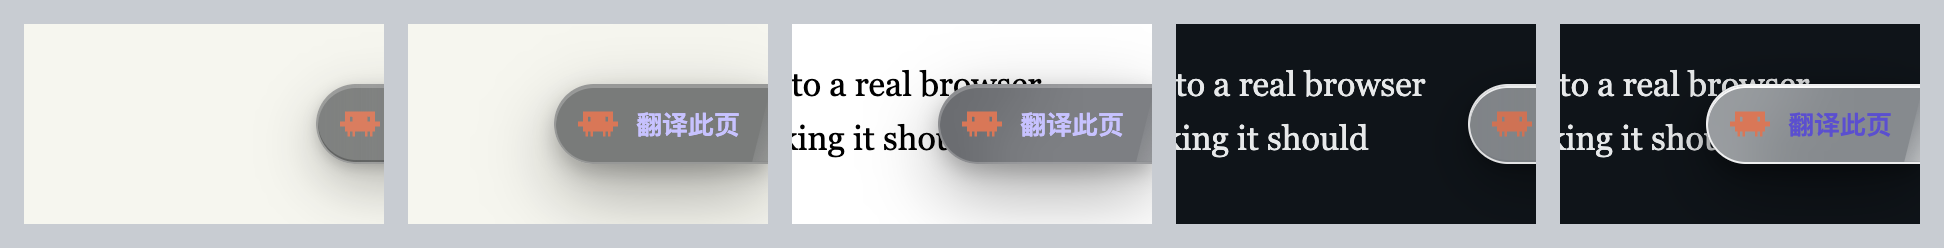
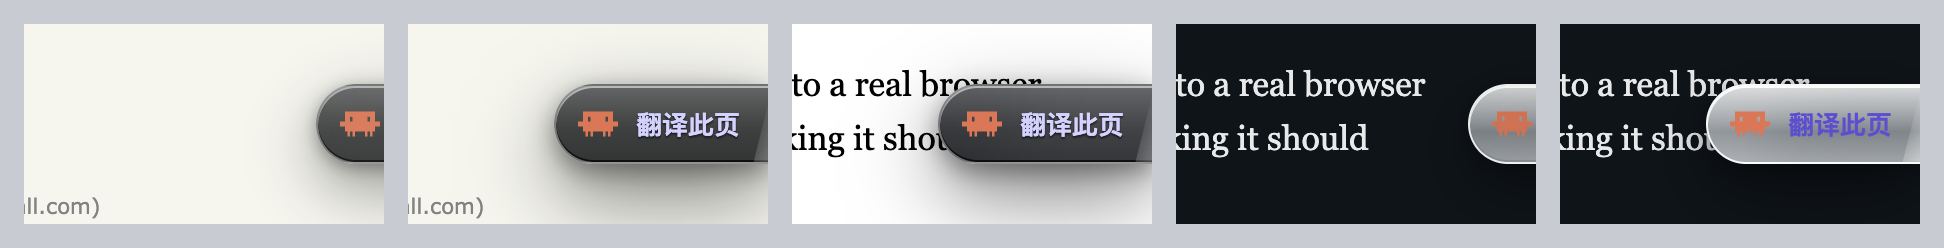
0.7.1: piano-black glossy glass for the side tab

diff --git a/translator.css b/translator.css
@@ -17,23 +17,24 @@ html.xrf-dark .xrf-tr-below{color:#b3adf0}
    the page for contrast: dark glass on light pages, light glass on dark pages (html.xrf-dark is set from the page's own
    background). Every property the host page could bleed in (img margins/positioning, line-height, box-sizing) is pinned. */
 .xrf-fab{position:fixed;right:0;top:50%;z-index:2147483000;box-sizing:border-box;display:flex;align-items:center;gap:9px;height:40px;margin:0;padding:0 14px 0 11px;border-radius:999px 0 0 999px;overflow:hidden;isolation:isolate;
-  background:rgba(18,22,30,.55);backdrop-filter:blur(16px) saturate(1.6);-webkit-backdrop-filter:blur(16px) saturate(1.6);border:1px solid rgba(255,255,255,.22);border-right:0;
-  box-shadow:inset 0 1px 0 rgba(255,255,255,.22),inset 0 -1px 0 rgba(0,0,0,.25),0 2px 6px rgba(0,0,0,.18),0 10px 28px rgba(0,0,0,.28);
+  background:linear-gradient(180deg,rgba(255,255,255,.2),rgba(255,255,255,.05) 42%,rgba(255,255,255,0) 58%,rgba(0,0,0,.18)),rgba(4,6,10,.76);   /* piano-black: near-black base, glossy top highlight */
+  backdrop-filter:blur(18px) saturate(1.9);-webkit-backdrop-filter:blur(18px) saturate(1.9);border:1px solid rgba(255,255,255,.3);border-right:0;
+  box-shadow:inset 0 1px 0 rgba(255,255,255,.5),inset 0 -1px 0 rgba(0,0,0,.7),0 2px 8px rgba(0,0,0,.35),0 12px 32px rgba(0,0,0,.42);
   font:600 13px/1 -apple-system,BlinkMacSystemFont,"PingFang SC",system-ui,sans-serif;color:#f3f4f6;letter-spacing:0;text-align:left;cursor:pointer;user-select:none;white-space:nowrap;
   transform:translate(calc(100% - 34px),-50%);opacity:.95;transition:transform .28s cubic-bezier(.16,1,.3,1),opacity .2s,box-shadow .2s}
-.xrf-fab:hover{transform:translate(0,-50%);opacity:1;box-shadow:inset 0 1px 0 rgba(255,255,255,.24),0 4px 10px rgba(0,0,0,.22),0 14px 36px rgba(0,0,0,.34)}
+.xrf-fab:hover{transform:translate(0,-50%);opacity:1;box-shadow:inset 0 1px 0 rgba(255,255,255,.55),inset 0 -1px 0 rgba(0,0,0,.7),0 4px 12px rgba(0,0,0,.4),0 16px 40px rgba(0,0,0,.5)}
 .xrf-fab:active{transform:translate(0,-50%) scale(.97)}
 .xrf-fab::after{content:"";position:absolute;top:0;bottom:0;left:0;width:45%;z-index:-1;pointer-events:none;   /* specular streak on hover */
-  background:linear-gradient(105deg,transparent,rgba(255,255,255,.3),transparent);transform:translateX(-180%) skewX(-14deg);transition:transform .6s cubic-bezier(.16,1,.3,1)}
+  background:linear-gradient(105deg,transparent,rgba(255,255,255,.5),transparent);transform:translateX(-180%) skewX(-14deg);transition:transform .6s cubic-bezier(.16,1,.3,1)}
 .xrf-fab:hover::after{transform:translateX(230%) skewX(-14deg)}
 .xrf-fab img{width:20px;height:20px;flex:none;display:block;margin:0;padding:0;border:0;position:static;inset:auto;transform:none;max-width:none;max-height:none;vertical-align:middle;box-sizing:content-box;background:none;box-shadow:none;border-radius:0;filter:none}
-.xrf-fab-label{display:inline-block;margin:0;padding:0;line-height:1;color:#c7c2ff}
+.xrf-fab-label{display:inline-block;margin:0;padding:0;line-height:1;color:#d6d2ff;text-shadow:0 1px 1px rgba(0,0,0,.5)}
 .xrf-fab.on .xrf-fab-label{color:#f3f4f6}
 .xrf-fab.busy .xrf-fab-label::before{content:"";display:inline-block;width:6px;height:6px;margin-right:6px;border-radius:50%;background:#c7c2ff;vertical-align:1px;animation:xrf-pulse 1.2s ease-in-out infinite}
 @keyframes xrf-pulse{50%{opacity:.25}}
-html.xrf-dark .xrf-fab{background:rgba(255,255,255,.5);border-color:rgba(255,255,255,.85);color:#0f1419;
-  box-shadow:inset 0 1px 0 rgba(255,255,255,.95),inset 0 -1px 0 rgba(16,24,40,.06),0 2px 6px rgba(0,0,0,.25),0 10px 28px rgba(0,0,0,.35)}
+html.xrf-dark .xrf-fab{background:linear-gradient(180deg,rgba(255,255,255,.75),rgba(255,255,255,.35) 45%,rgba(255,255,255,.2) 60%,rgba(255,255,255,.4)),rgba(255,255,255,.35);border-color:rgba(255,255,255,.9);color:#0f1419;
+  box-shadow:inset 0 1px 0 rgba(255,255,255,1),inset 0 -1px 0 rgba(16,24,40,.12),0 2px 8px rgba(0,0,0,.3),0 12px 32px rgba(0,0,0,.4)}
 html.xrf-dark .xrf-fab:hover{box-shadow:inset 0 1px 0 rgba(255,255,255,.95),0 4px 10px rgba(0,0,0,.3),0 14px 36px rgba(0,0,0,.4)}
 html.xrf-dark .xrf-fab::after{background:linear-gradient(105deg,transparent,rgba(255,255,255,.65),transparent)}
-html.xrf-dark .xrf-fab-label{color:#5b4fcf}html.xrf-dark .xrf-fab.on .xrf-fab-label{color:#0f1419}
+html.xrf-dark .xrf-fab-label{color:#5b4fcf;text-shadow:none}html.xrf-dark .xrf-fab.on .xrf-fab-label{color:#0f1419}
 html.xrf-dark .xrf-fab.busy .xrf-fab-label::before{background:#5b4fcf}
